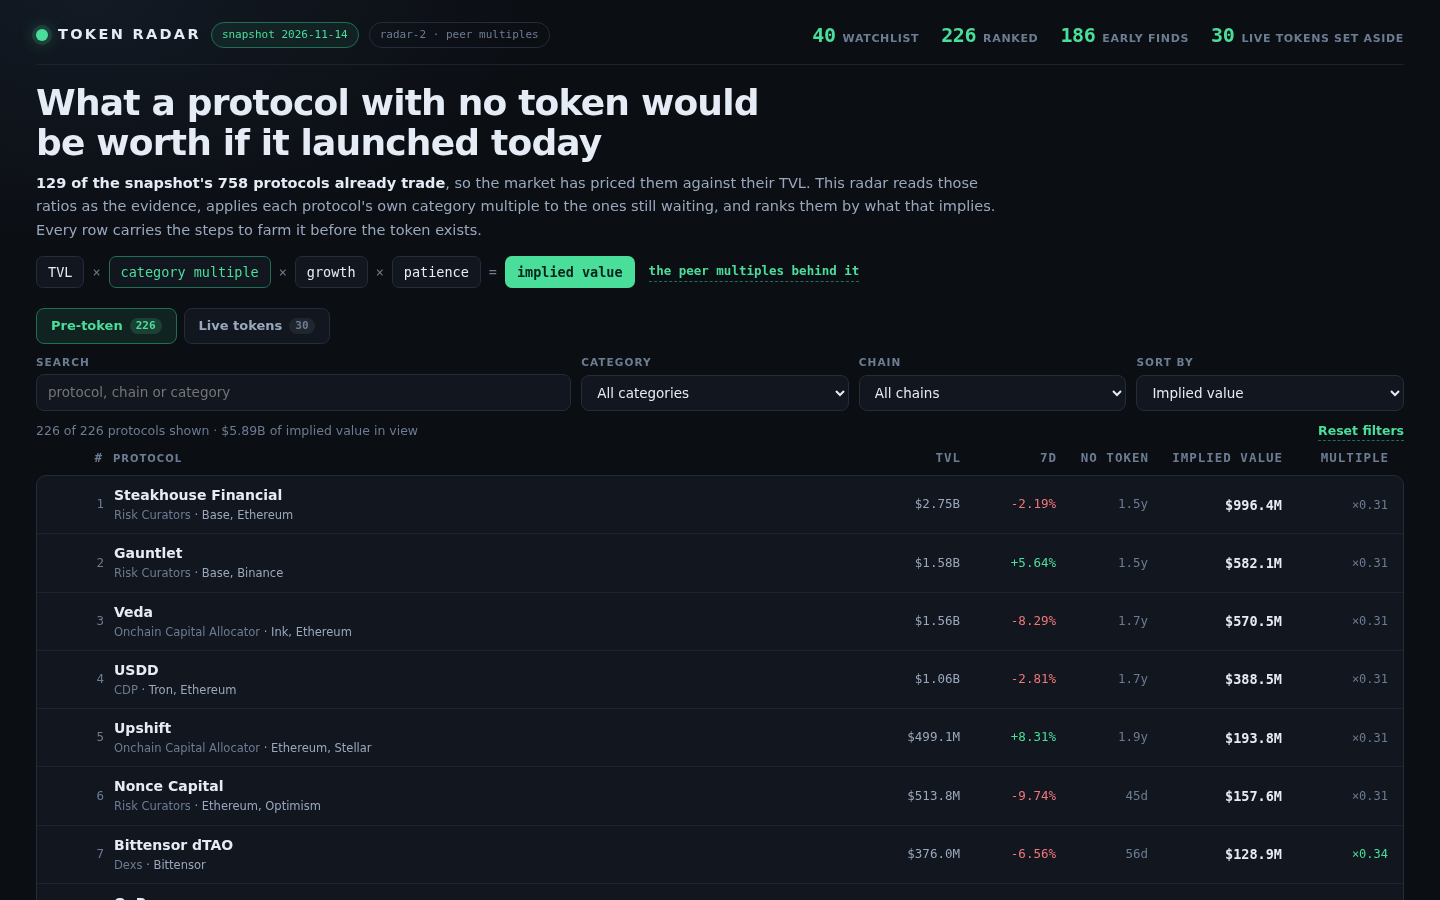
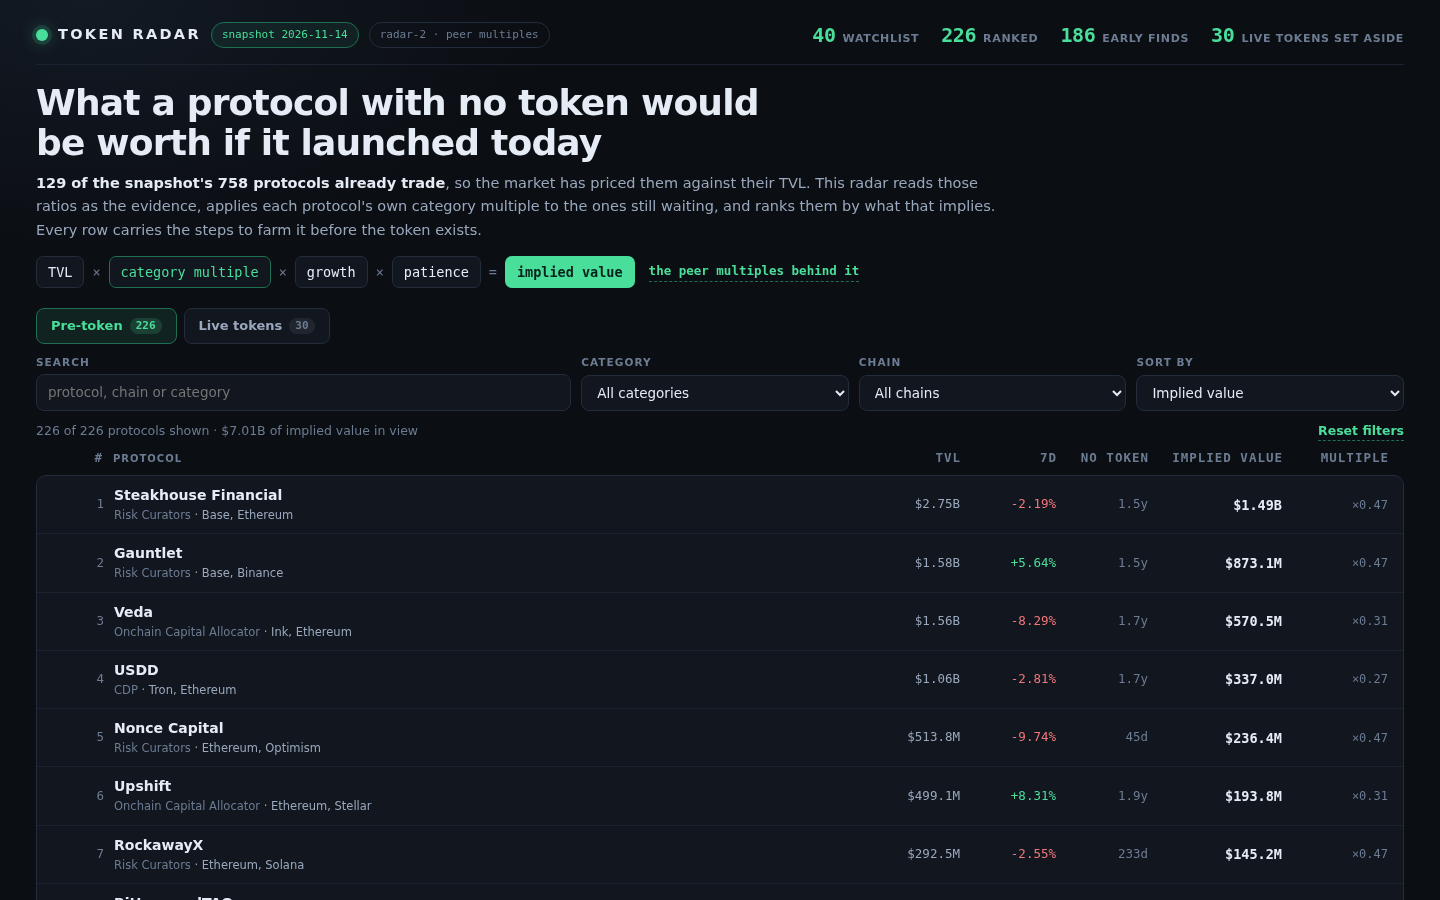
Value thin categories with a bounded multiple, and show the peers behind it
A category with a single token-bearing peer had that peer's ratio applied whole, so Risk
Curators took Api3's 2.97x and the board's top row read $3.1B. The multiple now blends a
category's own median toward the all-category median by n/(n+3), and a category under four
peers is held inside 1.5x of that median, so its own peers still move the number without one
peer setting it. Every row now carries up to four named peers with their ratios, and the
detail view lists them, so a reader can check the multiple rather than take it.

Also formats the upside figure in a farm step's last line ($1.28B, not $1280601395).

diff --git a/lib/model.ts b/lib/model.ts
@@ -47,6 +47,12 @@ export interface ModelConstants {
   ratio_cap: number;
   /** Below this many peers a category borrows the all-category median. */
   min_peers: number;
+  /** Credibility weight: a category's own median is blended toward the all-category median by
+   *  n/(n+K), so one lucky peer cannot set a whole category's multiple. */
+  credibility: number;
+  /** A thin category's blended multiple is clamped to this band around the all-category median,
+   *  so one peer worth 10x cannot value a whole category at 10x. */
+  thin_band: number;
   growth_weight: number;
   growth_floor: number;
   growth_cap: number;
@@ -63,6 +69,8 @@ export const MODEL: ModelConstants = {
   ratio_floor: 0.02,
   ratio_cap: 4,
   min_peers: 4,
+  credibility: 3,
+  thin_band: 1.5,
   growth_weight: 0.25,
   growth_floor: -60,
   growth_cap: 120,
@@ -100,6 +108,7 @@ export interface BoardRow {
     multiple: number;
     peer_count: number;
     peer_median: number;
+    peers: { name: string; ratio: number }[];
     growth_pct: number;
     growth_multiplier: number;
     patience_multiplier: number;
@@ -123,6 +132,7 @@ export interface RadarRow {
   multiple: number;
   peer_count: number;
   peer_median: number;
+  peers: { name: string; ratio: number }[];
   growth_multiplier: number;
   patience_multiplier: number;
 }
@@ -203,38 +213,64 @@ export function median(values: number[]): number {
  * The market's own multiples, by category: for every protocol that already trades, its market cap
  * over its TVL, kept only where both figures are real and the ratio is not an artefact.
  */
-export function peerGroups(protocols: SnapshotProtocol[], model: ModelConstants): { groups: Map<string, number[]>; all: number[] } {
-  const groups = new Map<string, number[]>();
-  const all: number[] = [];
+export interface Peer {
+  name: string;
+  ratio: number;
+  tvl_usd: number;
+}
+
+export function peerGroups(protocols: SnapshotProtocol[], model: ModelConstants): { groups: Map<string, Peer[]>; all: Peer[] } {
+  const groups = new Map<string, Peer[]>();
+  const all: Peer[] = [];
   for (const p of protocols) {
     if (p.mcap_usd === null || p.tvl_usd <= 0 || p.category === 'CEX') continue;
     const ratio = p.mcap_usd / p.tvl_usd;
     if (!Number.isFinite(ratio) || ratio < model.ratio_floor || ratio > model.ratio_cap) continue;
-    all.push(ratio);
+    const peer: Peer = { name: p.name, ratio: round4(ratio), tvl_usd: p.tvl_usd };
+    all.push(peer);
     const key = p.category ?? '';
     const list = groups.get(key);
-    if (list === undefined) groups.set(key, [ratio]);
-    else list.push(ratio);
+    if (list === undefined) groups.set(key, [peer]);
+    else list.push(peer);
   }
   return { groups, all };
 }
 
-/** The multiple a pre-token protocol is valued at, and where that multiple came from. */
-export function multipleFor(p: SnapshotProtocol, groups: Map<string, number[]>, all: number[], model: ModelConstants): { multiple: number; peers: number; median: number; borrowed: boolean } {
+/** The peers behind a multiple, largest first: the evidence a reader can check. */
+export function peerEvidence(own: Peer[], all: Peer[], limit: number): { name: string; ratio: number }[] {
+  const source = own.length > 0 ? own : all;
+  return [...source]
+    .sort((a, b) => b.tvl_usd - a.tvl_usd)
+    .slice(0, limit)
+    .map((p) => ({ name: p.name, ratio: p.ratio }));
+}
+
+/**
+ * The multiple a pre-token protocol is valued at, and where that multiple came from.
+ *
+ * A category's own median is pulled toward the all-category median by n/(n+K), so a handful of
+ * peers cannot set it as firmly as a dozen. A category with fewer than min_peers peers is held
+ * inside a band around the all-category median: its own median still moves the number, but one
+ * peer trading at ten times its TVL cannot value a whole category at ten times.
+ */
+export function multipleFor(p: SnapshotProtocol, groups: Map<string, Peer[]>, all: Peer[], model: ModelConstants): { multiple: number; peers: number; median: number; borrowed: boolean; own: Peer[] } {
   const key = p.category ?? '';
   const own = groups.get(key) ?? [];
-  if (own.length >= model.min_peers) {
-    const m = median(own);
-    return { multiple: m, peers: own.length, median: m, borrowed: false };
-  }
-  const m = median(all);
-  return { multiple: m, peers: own.length, median: m, borrowed: true };
+  const global = median(all.map((o) => o.ratio));
+  const n = own.length;
+  if (n === 0) return { multiple: global, peers: 0, median: global, borrowed: true, own };
+  const cat = median(own.map((o) => o.ratio));
+  const blended = (n * cat + model.credibility * global) / (n + model.credibility);
+  if (n >= model.min_peers) return { multiple: blended, peers: n, median: cat, borrowed: false, own };
+  const lo = global / model.thin_band;
+  const hi = global * model.thin_band;
+  return { multiple: Math.min(hi, Math.max(lo, blended)), peers: n, median: cat, borrowed: true, own };
 }
 
 /** The three multipliers and the implied value one protocol gets under `model`. */
-export function impliedValue(p: SnapshotProtocol, asOf: string, model: ModelConstants, groups: Map<string, number[]>, all: number[]) {
+export function impliedValue(p: SnapshotProtocol, asOf: string, model: ModelConstants, groups: Map<string, Peer[]>, all: Peer[]) {
   const age = ageDays(asOf, p.listed_at);
-  const { multiple, peers, median: peerMedian, borrowed } = multipleFor(p, groups, all, model);
+  const { multiple, peers, median: peerMedian, borrowed, own } = multipleFor(p, groups, all, model);
   const rawGrowth = finite(p.change_7d, 0);
   const growthPct = Math.min(model.growth_cap, Math.max(model.growth_floor, rawGrowth));
   const growthMult = 1 + (growthPct / 100) * model.growth_weight;
@@ -242,7 +278,7 @@ export function impliedValue(p: SnapshotProtocol, asOf: string, model: ModelCons
   const waited = Math.min(Math.max(ageForModel, 0), model.patience_days) / model.patience_days;
   const patienceMult = 1 + waited * model.patience_weight;
   const implied = Math.max(1, Math.round(p.tvl_usd * multiple * growthMult * patienceMult));
-  return { implied, growthPct, growthMult, patienceMult, age, multiple, peers, peerMedian, borrowed };
+  return { implied, growthPct, growthMult, patienceMult, age, multiple, peers, peerMedian, borrowed, own };
 }
 
 export function buildBoard(snapshot: Snapshot, model: ModelConstants = MODEL): BoardRow[] {
@@ -281,6 +317,7 @@ export function buildBoard(snapshot: Snapshot, model: ModelConstants = MODEL): B
       multiple: round4(s.multiple),
       peer_count: s.peers,
       peer_median: round4(s.peerMedian),
+      peers: peerEvidence(s.own, all, 4),
       growth_pct: s.growthPct,
       growth_multiplier: round4(s.growthMult),
       patience_multiplier: round4(s.patienceMult),
@@ -291,6 +328,15 @@ export function buildBoard(snapshot: Snapshot, model: ModelConstants = MODEL): B
 }
 
 const round4 = (n: number): number => Math.round(n * 1e4) / 1e4;
+
+/** A dollar figure in the short form the page uses, for text a reader scans. */
+function shortUsd(n: number): string {
+  const a = Math.abs(n);
+  if (a >= 1e9) return `$${(n / 1e9).toFixed(2)}B`;
+  if (a >= 1e6) return `$${(n / 1e6).toFixed(1)}M`;
+  if (a >= 1e3) return `$${Math.round(n / 1e3)}K`;
+  return `$${Math.round(n)}`;
+}
 
 export function stepText(step: FarmStep): string {
   let s = `${step.text} Cost: ${step.cost}. Time: ${step.time}.`;
@@ -347,7 +393,7 @@ export function farmSteps(p: SnapshotProtocol, age: number | null, multiple: num
   const capital = capitalFor(p);
   const hold = holdDaysFor(age);
   const action = actionFor(p, capital, chain);
-  const upside = Math.round(p.tvl_usd * multiple);
+  const upside = shortUsd(Math.round(p.tvl_usd * multiple));
   return [
     {
       text: `Use a fresh wallet funded only for this farm, keep the seed phrase offline, and note the date the position opens.`,
@@ -375,7 +421,7 @@ export function farmSteps(p: SnapshotProtocol, age: number | null, multiple: num
       time: '10 minutes a month',
     },
     {
-      text: `Log the wallet, the dates and every transaction, and compare the position with the $${upside} the category's multiple implies before you add more.`,
+      text: `Log the wallet, the dates and every transaction, and compare the position with the ${upside} the category's multiple implies before you add more.`,
       cost: 'nothing but the log',
       time: '5 minutes',
     },
@@ -415,6 +461,7 @@ export function radarRow(row: BoardRow): RadarRow {
     multiple: row.model.multiple,
     peer_count: row.model.peer_count,
     peer_median: row.model.peer_median,
+    peers: row.model.peers,
     growth_multiplier: row.model.growth_multiplier,
     patience_multiplier: row.model.patience_multiplier,
   };
@@ -428,10 +475,10 @@ export function buildRadar(snapshot: Snapshot, model: ModelConstants = MODEL): {
   const peers: PeerGroup[] = [...groups.entries()]
     .map(([category, list]) => {
       const enough = list.length >= model.min_peers;
-      return { category: category === '' ? 'no category' : category, peers: list.length, median: round4(median(list)), borrowed: !enough };
+      return { category: category === '' ? 'no category' : category, peers: list.length, median: round4(median(list.map((o) => o.ratio))), borrowed: !enough };
     })
     .sort((a, b) => b.peers - a.peers || a.category.localeCompare(b.category));
-  peers.push({ category: 'all categories', peers: all.length, median: round4(median(all)), borrowed: false });
+  peers.push({ category: 'all categories', peers: all.length, median: round4(median(all.map((o) => o.ratio))), borrowed: false });
   const radar: RadarData = {
     as_of: snapshot.as_of,
     source: snapshot.source,

diff --git a/dashboard/app.js b/dashboard/app.js
@@ -299,6 +299,17 @@
     return null;
   }
 
+  // The evidence line: which protocols the multiple came from, and what each is priced at.
+  function peerNote(row) {
+    var peers = row.peers || [];
+    if (peers.length === 0) return 'no token-bearing peer, so the all-category median';
+    var shown = peers.slice(0, 3).map(function (p) { return p.name + ' ×' + p.ratio.toFixed(2); }).join(', ');
+    if (row.peer_count < DATA.model.min_peers) {
+      return 'only ' + row.peer_count + ' peer' + (row.peer_count === 1 ? '' : 's') + ' (' + shown + '), blended with the all-category median and held within ×' + DATA.model.thin_band + ' of it';
+    }
+    return 'median of ' + row.peer_count + ' token-bearing peers: ' + shown;
+  }
+
   function wline(k, sub, v, total) {
     return el('div', { class: 'wline' + (total ? ' total' : '') },
       el('div', { class: 'k' }, el('span', { text: k }), sub ? el('small', { text: sub }) : null),
@@ -346,11 +357,22 @@
     if (pre !== null) {
       var workings = el('div', { class: 'workings' });
       workings.appendChild(wline('TVL', 'the snapshot’s figure for this protocol', fmtUsd(pre.tvl_usd)));
-      workings.appendChild(wline('Category multiple', (pre.peer_count < model.min_peers ? 'borrowed: only ' + pre.peer_count + ' peers in its category' : 'median of ' + pre.peer_count + ' token-bearing peers'), '×' + pre.multiple.toFixed(4)));
+      workings.appendChild(wline('Category multiple', peerNote(pre), '×' + pre.multiple.toFixed(4)));
       workings.appendChild(wline('Growth multiplier', '7-day change ' + fmtPct(pre.change_7d) + ', quarter weight', '×' + pre.growth_multiplier.toFixed(4)));
       workings.appendChild(wline('Patience multiplier', fmtAge(pre.age_days) + ' with no token, up to ×' + (1 + model.patience_weight).toFixed(2), '×' + pre.patience_multiplier.toFixed(4)));
       workings.appendChild(wline('Implied value', 'TVL × multiple × growth × patience', fmtUsd(rec), true));
       left.appendChild(workings);
+      if (pre.peers && pre.peers.length > 0) {
+        var ev = el('div', { class: 'evidence' });
+        ev.appendChild(el('h4', { text: 'The peers behind that multiple' }));
+        pre.peers.forEach(function (p) {
+          ev.appendChild(el('div', { class: 'ev-row' },
+            el('span', { class: 'ev-name', text: p.name }),
+            el('span', { class: 'ev-ratio', text: '×' + p.ratio.toFixed(2) })
+          ));
+        });
+        left.appendChild(ev);
+      }
     } else {
       var facts = el('div', { class: 'facts' });
       facts.appendChild(fact('TVL', fmtUsd(live.tvl_usd)));
@@ -433,14 +455,14 @@
     var chain = chainOf(p);
     var capital = capitalFor(p);
     var hold = holdDaysFor(p.age_days);
-    var upside = Math.round(p.tvl_usd * p.multiple);
+    var upside = fmtUsd(Math.round(p.tvl_usd * p.multiple));
     return [
       'Use a fresh wallet funded only for this farm, keep the seed phrase offline, and note the date the position opens. Cost: under $3 of gas. Time: 5 minutes.',
       actionFor(p, capital, chain) + ' Cost: $' + capital + ' of capital and about $' + (capital >= 250 ? 10 : 5) + ' of gas. Time: 15 minutes to set up.',
       'Make one qualifying action a week on ' + chain + ': a deposit, a borrow, a swap or a governance vote. Cost: about $2 of gas a week. Time: 10 minutes a week.',
       'Hold for at least ' + hold + ' days so the activity lands in more than one snapshot, and do not move the funds mid-window. Cost: the $' + capital + ' stays in the position. Time: ' + hold + ' days.',
       "Check " + p.name + "'s own docs and governance forum monthly for a points or airdrop programme, and claim only from a link the protocol publishes. Cost: no fee to check, and never pay to claim. Time: 10 minutes a month.",
-      'Log the wallet, the dates and every transaction, and compare the position with the $' + upside + " the category's multiple implies before you add more. Cost: nothing but the log. Time: 5 minutes."
+      'Log the wallet, the dates and every transaction, and compare the position with the ' + upside + " the category's multiple implies before you add more. Cost: nothing but the log. Time: 5 minutes."
     ];
   }
 

diff --git a/dashboard/app.css b/dashboard/app.css
@@ -452,3 +452,26 @@ h1 {
   .r-age, .r-mult, .board-head .h-age, .board-head .h-mult { display: none; }
   .detail-grid { grid-template-columns: 1fr; }
 }
+
+/* ── peer evidence in the detail view ─────────────────────── */
+
+.evidence { margin-top: 16px; padding-top: 13px; border-top: 1px solid var(--line-soft); }
+.evidence h4 {
+  margin: 0 0 7px;
+  font-size: 10.5px;
+  letter-spacing: .1em;
+  text-transform: uppercase;
+  color: var(--text-3);
+  font-weight: 700;
+}
+.ev-row {
+  display: flex;
+  justify-content: space-between;
+  gap: 12px;
+  padding: 4px 0;
+  font-size: 12.5px;
+  border-bottom: 1px dashed var(--line-soft);
+}
+.ev-row:last-child { border-bottom: none; }
+.ev-name { color: var(--text-2); }
+.ev-ratio { font-family: var(--mono); color: var(--accent); }
